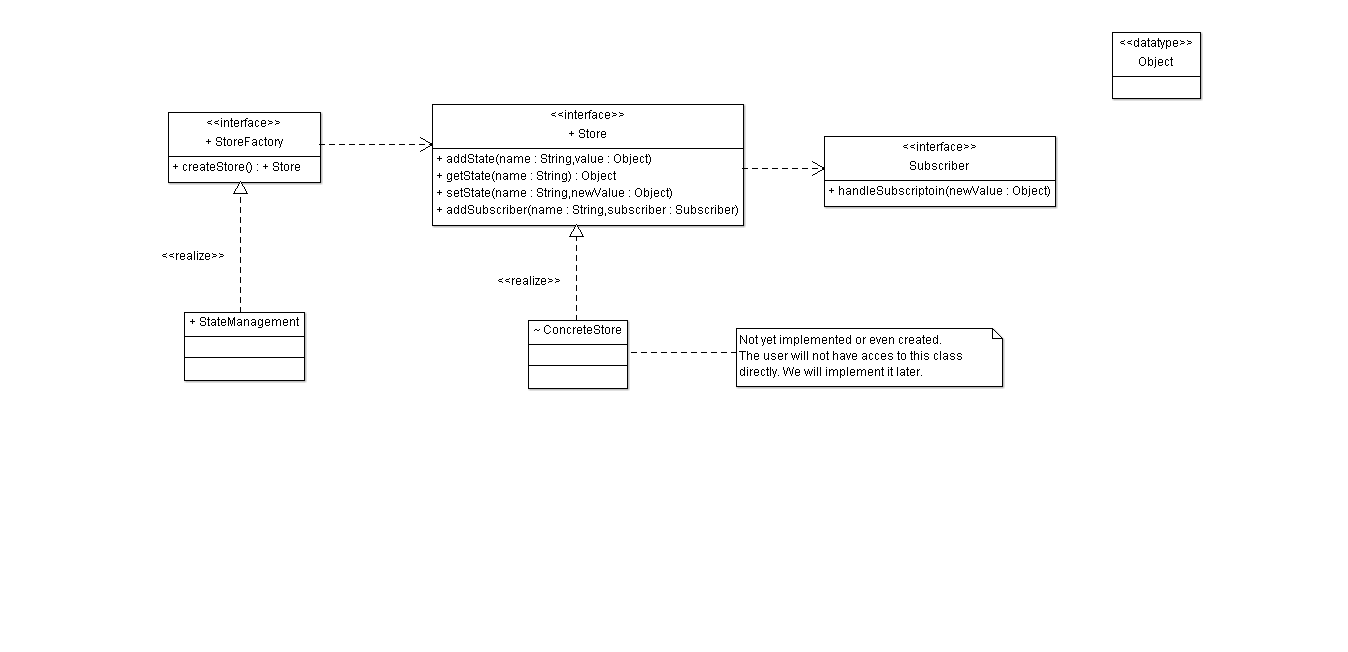
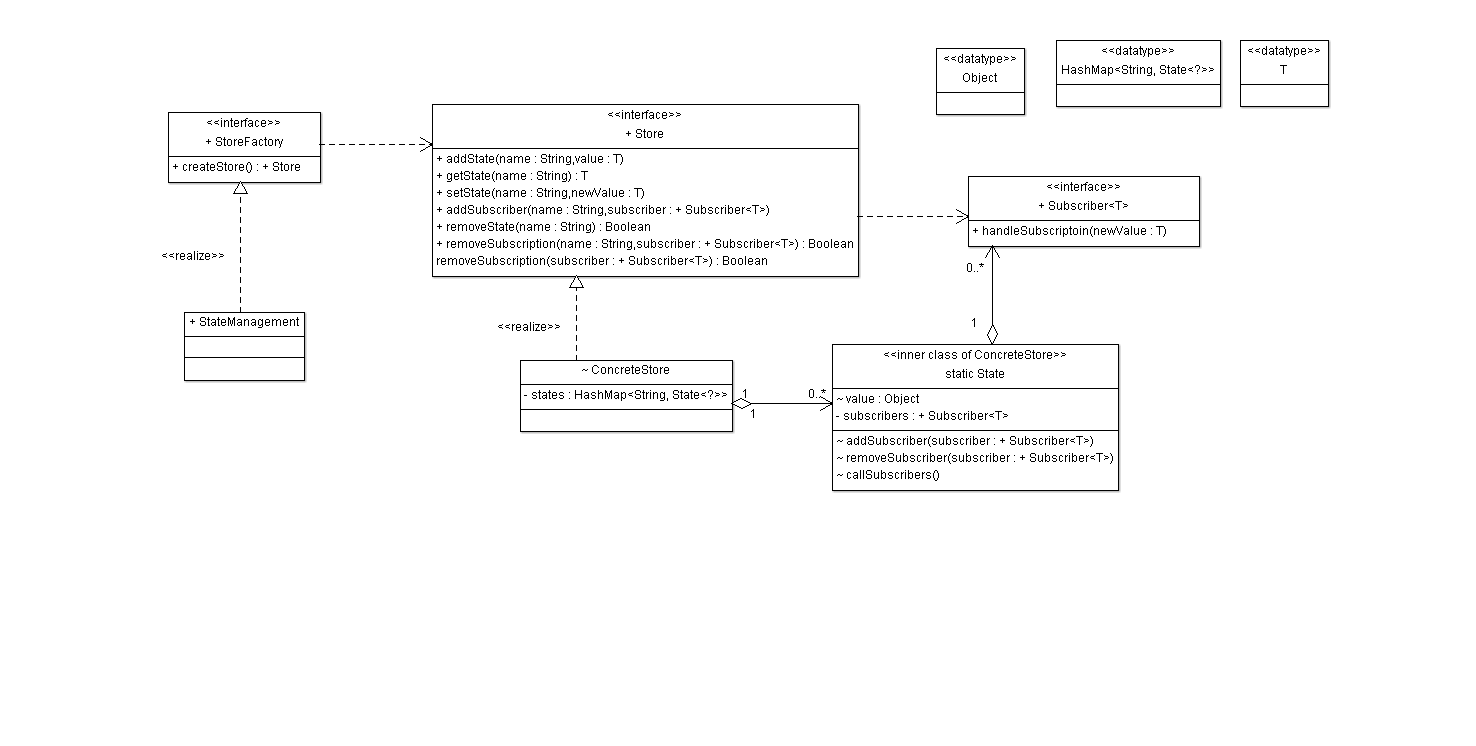
fully tested (works), updated UML with type parameters

diff --git a/javadoc/ccsu/cs505/statemanagement/Store.html b/javadoc/ccsu/cs505/statemanagement/Store.html
@@ -2,10 +2,10 @@
 <!-- NewPage -->
 <html lang="en">
 <head>
-<!-- Generated by javadoc (1.8.0_162) on Sun Oct 28 15:41:09 EDT 2018 -->
+<!-- Generated by javadoc (1.8.0_162) on Mon Oct 29 21:43:32 EDT 2018 -->
 <meta http-equiv="Content-Type" content="text/html; charset=UTF-8">
 <title>Store</title>
-<meta name="date" content="2018-10-28">
+<meta name="date" content="2018-10-29">
 <link rel="stylesheet" type="text/css" href="../../../stylesheet.css" title="Style">
 <script type="text/javascript" src="../../../script.js"></script>
 </head>
@@ -138,7 +138,7 @@ var activeTableTab = "activeTableTab";
 <tr id="i2" class="altColor">
 <td class="colFirst"><code>&lt;T&gt;&nbsp;T</code></td>
 <td class="colLast"><code><span class="memberNameLink"><a href="../../../ccsu/cs505/statemanagement/Store.html#getState-java.lang.String-">getState</a></span>(java.lang.String&nbsp;name)</code>
-<div class="block">Returns the value for the specified state</div>
+<div class="block">Returns the value for the specified state.</div>
 </td>
 </tr>
 <tr id="i3" class="rowColor">
@@ -228,7 +228,9 @@ var activeTableTab = "activeTableTab";
 <li class="blockList">
 <h4>getState</h4>
 <pre>&lt;T&gt;&nbsp;T&nbsp;getState(java.lang.String&nbsp;name)</pre>
-<div class="block">Returns the value for the specified state</div>
+<div class="block">Returns the value for the specified state. Note: you will likely need
+ to either typecast whatever is returned or pass the type you want via
+ type arguments in order to use the returned object properly.</div>
 <dl>
 <dt><span class="paramLabel">Type Parameters:</span></dt>
 <dd><code>T</code> - the type of the expected value</dd>

diff --git a/javadoc/index-files/index-3.html b/javadoc/index-files/index-3.html
@@ -2,10 +2,10 @@
 <!-- NewPage -->
 <html lang="en">
 <head>
-<!-- Generated by javadoc (1.8.0_162) on Sun Oct 28 15:41:09 EDT 2018 -->
+<!-- Generated by javadoc (1.8.0_162) on Mon Oct 29 21:43:32 EDT 2018 -->
 <meta http-equiv="Content-Type" content="text/html; charset=UTF-8">
 <title>G-Index</title>
-<meta name="date" content="2018-10-28">
+<meta name="date" content="2018-10-29">
 <link rel="stylesheet" type="text/css" href="../stylesheet.css" title="Style">
 <script type="text/javascript" src="../script.js"></script>
 </head>
@@ -76,7 +76,7 @@
 <dl>
 <dt><span class="memberNameLink"><a href="../ccsu/cs505/statemanagement/Store.html#getState-java.lang.String-">getState(String)</a></span> - Method in interface ccsu.cs505.statemanagement.<a href="../ccsu/cs505/statemanagement/Store.html" title="interface in ccsu.cs505.statemanagement">Store</a></dt>
 <dd>
-<div class="block">Returns the value for the specified state</div>
+<div class="block">Returns the value for the specified state.</div>
 </dd>
 </dl>
 <a href="index-1.html">A</a>&nbsp;<a href="index-2.html">C</a>&nbsp;<a href="index-3.html">G</a>&nbsp;<a href="index-4.html">H</a>&nbsp;<a href="index-5.html">R</a>&nbsp;<a href="index-6.html">S</a>&nbsp;</div>

diff --git a/javadoc/ccsu/cs505/statemanagement/StateManagement.html b/javadoc/ccsu/cs505/statemanagement/StateManagement.html
@@ -2,10 +2,10 @@
 <!-- NewPage -->
 <html lang="en">
 <head>
-<!-- Generated by javadoc (1.8.0_162) on Sun Oct 28 15:41:08 EDT 2018 -->
+<!-- Generated by javadoc (1.8.0_162) on Mon Oct 29 21:43:32 EDT 2018 -->
 <meta http-equiv="Content-Type" content="text/html; charset=UTF-8">
 <title>StateManagement</title>
-<meta name="date" content="2018-10-28">
+<meta name="date" content="2018-10-29">
 <link rel="stylesheet" type="text/css" href="../../../stylesheet.css" title="Style">
 <script type="text/javascript" src="../../../script.js"></script>
 </head>
@@ -116,7 +116,10 @@ var activeTableTab = "activeTableTab";
 <pre>public class <span class="typeNameLabel">StateManagement</span>
 extends java.lang.Object
 implements <a href="../../../ccsu/cs505/statemanagement/StoreFactory.html" title="interface in ccsu.cs505.statemanagement">StoreFactory</a></pre>
-<div class="block">Can create stores. May do other things later on.</div>
+<div class="block">Can create stores. May do other things later on.
+ Note to instructor: Object.equals() and Object.hashCode() are not
+ implemented here because they wouldn't make sense; this class has no fields
+ to do comparisons with.</div>
 </li>
 </ul>
 </div>

diff --git a/javadoc/ccsu/cs505/statemanagement/class-use/StoreFactory.html b/javadoc/ccsu/cs505/statemanagement/class-use/StoreFactory.html
@@ -2,10 +2,10 @@
 <!-- NewPage -->
 <html lang="en">
 <head>
-<!-- Generated by javadoc (1.8.0_162) on Sun Oct 28 15:41:09 EDT 2018 -->
+<!-- Generated by javadoc (1.8.0_162) on Mon Oct 29 21:43:32 EDT 2018 -->
 <meta http-equiv="Content-Type" content="text/html; charset=UTF-8">
 <title>Uses of Interface ccsu.cs505.statemanagement.StoreFactory</title>
-<meta name="date" content="2018-10-28">
+<meta name="date" content="2018-10-29">
 <link rel="stylesheet" type="text/css" href="../../../../stylesheet.css" title="Style">
 <script type="text/javascript" src="../../../../script.js"></script>
 </head>

diff --git a/javadoc/ccsu/cs505/statemanagement/class-use/StateManagement.html b/javadoc/ccsu/cs505/statemanagement/class-use/StateManagement.html
@@ -2,10 +2,10 @@
 <!-- NewPage -->
 <html lang="en">
 <head>
-<!-- Generated by javadoc (1.8.0_162) on Sun Oct 28 15:41:09 EDT 2018 -->
+<!-- Generated by javadoc (1.8.0_162) on Mon Oct 29 21:43:32 EDT 2018 -->
 <meta http-equiv="Content-Type" content="text/html; charset=UTF-8">
 <title>Uses of Class ccsu.cs505.statemanagement.StateManagement</title>
-<meta name="date" content="2018-10-28">
+<meta name="date" content="2018-10-29">
 <link rel="stylesheet" type="text/css" href="../../../../stylesheet.css" title="Style">
 <script type="text/javascript" src="../../../../script.js"></script>
 </head>

diff --git a/javadoc/ccsu/cs505/statemanagement/class-use/Subscriber.html b/javadoc/ccsu/cs505/statemanagement/class-use/Subscriber.html
@@ -2,10 +2,10 @@
 <!-- NewPage -->
 <html lang="en">
 <head>
-<!-- Generated by javadoc (1.8.0_162) on Sun Oct 28 15:41:09 EDT 2018 -->
+<!-- Generated by javadoc (1.8.0_162) on Mon Oct 29 21:43:32 EDT 2018 -->
 <meta http-equiv="Content-Type" content="text/html; charset=UTF-8">
 <title>Uses of Interface ccsu.cs505.statemanagement.Subscriber</title>
-<meta name="date" content="2018-10-28">
+<meta name="date" content="2018-10-29">
 <link rel="stylesheet" type="text/css" href="../../../../stylesheet.css" title="Style">
 <script type="text/javascript" src="../../../../script.js"></script>
 </head>

diff --git a/javadoc/ccsu/cs505/statemanagement/class-use/Store.html b/javadoc/ccsu/cs505/statemanagement/class-use/Store.html
@@ -2,10 +2,10 @@
 <!-- NewPage -->
 <html lang="en">
 <head>
-<!-- Generated by javadoc (1.8.0_162) on Sun Oct 28 15:41:09 EDT 2018 -->
+<!-- Generated by javadoc (1.8.0_162) on Mon Oct 29 21:43:32 EDT 2018 -->
 <meta http-equiv="Content-Type" content="text/html; charset=UTF-8">
 <title>Uses of Interface ccsu.cs505.statemanagement.Store</title>
-<meta name="date" content="2018-10-28">
+<meta name="date" content="2018-10-29">
 <link rel="stylesheet" type="text/css" href="../../../../stylesheet.css" title="Style">
 <script type="text/javascript" src="../../../../script.js"></script>
 </head>

diff --git a/javadoc/ccsu/cs505/statemanagement/package-tree.html b/javadoc/ccsu/cs505/statemanagement/package-tree.html
@@ -2,10 +2,10 @@
 <!-- NewPage -->
 <html lang="en">
 <head>
-<!-- Generated by javadoc (1.8.0_162) on Sun Oct 28 15:41:09 EDT 2018 -->
+<!-- Generated by javadoc (1.8.0_162) on Mon Oct 29 21:43:32 EDT 2018 -->
 <meta http-equiv="Content-Type" content="text/html; charset=UTF-8">
 <title>ccsu.cs505.statemanagement Class Hierarchy</title>
-<meta name="date" content="2018-10-28">
+<meta name="date" content="2018-10-29">
 <link rel="stylesheet" type="text/css" href="../../../stylesheet.css" title="Style">
 <script type="text/javascript" src="../../../script.js"></script>
 </head>

diff --git a/javadoc/ccsu/cs505/statemanagement/package-use.html b/javadoc/ccsu/cs505/statemanagement/package-use.html
@@ -2,10 +2,10 @@
 <!-- NewPage -->
 <html lang="en">
 <head>
-<!-- Generated by javadoc (1.8.0_162) on Sun Oct 28 15:41:09 EDT 2018 -->
+<!-- Generated by javadoc (1.8.0_162) on Mon Oct 29 21:43:32 EDT 2018 -->
 <meta http-equiv="Content-Type" content="text/html; charset=UTF-8">
 <title>Uses of Package ccsu.cs505.statemanagement</title>
-<meta name="date" content="2018-10-28">
+<meta name="date" content="2018-10-29">
 <link rel="stylesheet" type="text/css" href="../../../stylesheet.css" title="Style">
 <script type="text/javascript" src="../../../script.js"></script>
 </head>

diff --git a/javadoc/ccsu/cs505/statemanagement/package-frame.html b/javadoc/ccsu/cs505/statemanagement/package-frame.html
@@ -2,10 +2,10 @@
 <!-- NewPage -->
 <html lang="en">
 <head>
-<!-- Generated by javadoc (1.8.0_162) on Sun Oct 28 15:41:09 EDT 2018 -->
+<!-- Generated by javadoc (1.8.0_162) on Mon Oct 29 21:43:32 EDT 2018 -->
 <meta http-equiv="Content-Type" content="text/html; charset=UTF-8">
 <title>ccsu.cs505.statemanagement</title>
-<meta name="date" content="2018-10-28">
+<meta name="date" content="2018-10-29">
 <link rel="stylesheet" type="text/css" href="../../../stylesheet.css" title="Style">
 <script type="text/javascript" src="../../../script.js"></script>
 </head>

diff --git a/javadoc/ccsu/cs505/statemanagement/package-summary.html b/javadoc/ccsu/cs505/statemanagement/package-summary.html
@@ -2,10 +2,10 @@
 <!-- NewPage -->
 <html lang="en">
 <head>
-<!-- Generated by javadoc (1.8.0_162) on Sun Oct 28 15:41:09 EDT 2018 -->
+<!-- Generated by javadoc (1.8.0_162) on Mon Oct 29 21:43:32 EDT 2018 -->
 <meta http-equiv="Content-Type" content="text/html; charset=UTF-8">
 <title>ccsu.cs505.statemanagement</title>
-<meta name="date" content="2018-10-28">
+<meta name="date" content="2018-10-29">
 <link rel="stylesheet" type="text/css" href="../../../stylesheet.css" title="Style">
 <script type="text/javascript" src="../../../script.js"></script>
 </head>

diff --git a/javadoc/ccsu/cs505/statemanagement/StoreFactory.html b/javadoc/ccsu/cs505/statemanagement/StoreFactory.html
@@ -2,10 +2,10 @@
 <!-- NewPage -->
 <html lang="en">
 <head>
-<!-- Generated by javadoc (1.8.0_162) on Sun Oct 28 15:41:09 EDT 2018 -->
+<!-- Generated by javadoc (1.8.0_162) on Mon Oct 29 21:43:32 EDT 2018 -->
 <meta http-equiv="Content-Type" content="text/html; charset=UTF-8">
 <title>StoreFactory</title>
-<meta name="date" content="2018-10-28">
+<meta name="date" content="2018-10-29">
 <link rel="stylesheet" type="text/css" href="../../../stylesheet.css" title="Style">
 <script type="text/javascript" src="../../../script.js"></script>
 </head>
